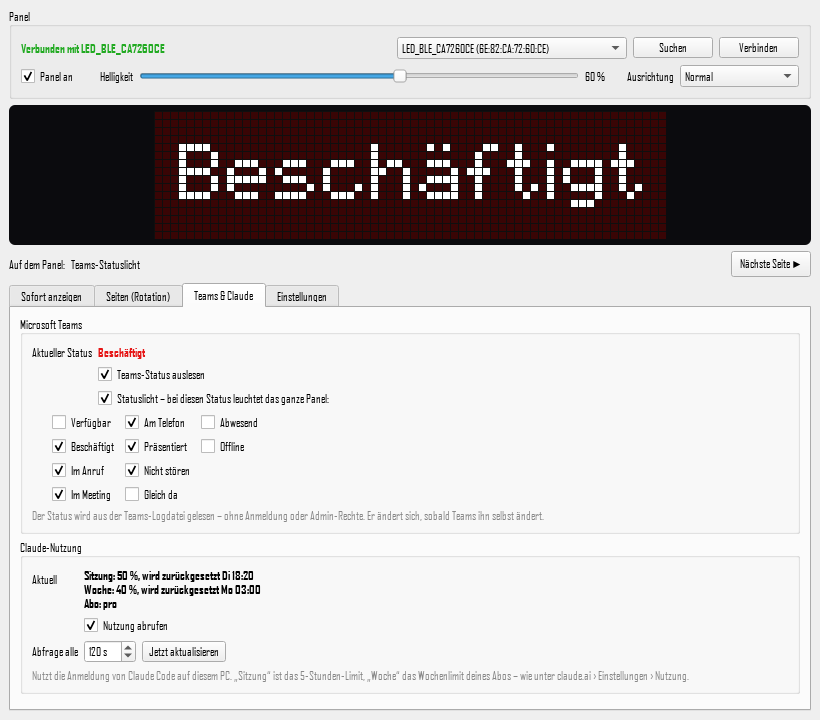
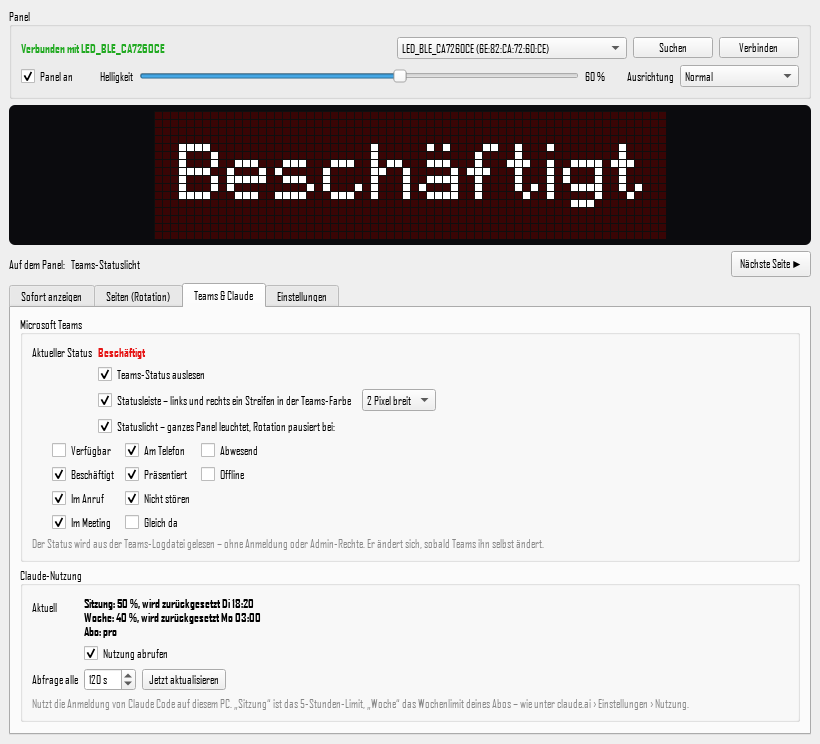
Abstände und einstellbare Statusleiste
- Uhr: 1 px Abstand zwischen Ziffern und Wochentag-Leiste (Leiste 1 px)
- Einzelwert mit Balken (z. B. Claude 50 %): 1 px Abstand zum Balken
- Teams-Statusleiste 1-3 px breit einstellbar; Seite wird schmaler gezeichnet
  statt überdeckt

Changed region(s): [[0.0, 0.0306, 1.0, 0.9472], [0.7317, 0.0611, 0.7622, 0.0917]]

diff --git a/tests/test_logic.py b/tests/test_logic.py
@@ -88,15 +88,39 @@ def test_signature_changes_with_data():
     assert pages.signature(clock, pages.Context(), now) != pages.signature(clock, pages.Context(), now.replace(minute=6))
 
 
-def test_status_frame_colours_the_edge_of_every_frame():
+GREEN = (0, 200, 60)
+NOW = datetime(2026, 11, 3, 14, 5)
+
+
+def _row(img, y, x0=0, x1=None):
+    return [img.getpixel((x, y)) for x in range(x0, x1 if x1 is not None else img.width)]
+
+
+@pytest.mark.parametrize("bars", [1, 2, 3])
+def test_status_bars_have_the_chosen_width_and_do_not_cover_content(bars):
     page = config.new_page("text")
-    out = pages.render_page(page, pages.Context(), 64, 16, datetime(2026, 11, 3, 14, 5))
-    framed = pages.add_frame(out, (0, 200, 60))
-    for f in framed.frames:
-        assert f.getpixel((0, 0)) == (0, 200, 60)
-        assert f.getpixel((63, 15)) == (0, 200, 60)
-        assert f.getpixel((63, 8)) == (0, 200, 60)
-    assert out.frames[0].getpixel((0, 0)) != (0, 200, 60)  # original untouched
+    inner = pages.render_page(page, pages.Context(), 64 - 2 * bars, 16, NOW)
+    framed = pages.with_status_bars(inner, GREEN, bars)
+    f = framed.frames[0]
+    assert f.size == (64, 16)
+    for x in list(range(bars)) + list(range(64 - bars, 64)):
+        assert all(f.getpixel((x, y)) == GREEN for y in range(16))
+    assert f.crop((bars, 0, 64 - bars, 16)).tobytes() == inner.frames[0].tobytes()
+
+
+def test_clock_digits_keep_a_gap_above_the_weekday_bar():
+    f = pages.render_page(config.new_page("clock"), pages.Context(), 64, 16, NOW).frames[0]
+    assert all(p == (0, 0, 0) for p in _row(f, 14)), "row 14 must stay dark between digits and bar"
+    assert any(p != (0, 0, 0) for p in _row(f, 15)), "weekday bar in the bottom row"
+    assert any(p != (0, 0, 0) for p in _row(f, 1)), "digits stay big (two times)"
+
+
+def test_claude_percent_keeps_a_gap_above_the_progress_bar():
+    page = {**config.new_page("claude"), "show": "session"}
+    ctx = pages.Context(claude=sources.ClaudeUsage(session=50, week=40))
+    f = pages.render_page(page, ctx, 64, 16, NOW).frames[0]
+    assert all(p == (0, 0, 0) for p in _row(f, 14, 17)), "row 14 dark between number and bar"
+    assert any(p != (0, 0, 0) for p in _row(f, 15, 17)), "progress bar in the bottom row"
 
 
 def test_default_light_states_leave_rotation_for_available():

diff --git a/pixelpanel/core/render.py b/pixelpanel/core/render.py
@@ -210,7 +210,7 @@ def _layout(screen: Screen, width: int, height: int) -> tuple[int, int, int, lis
     if screen.big and len(lines) == 1:
         text = lines[0].text
         glyph_h = font.LINE_HEIGHT if font.has_descender(text) else font.CAP_HEIGHT
-        avail_h = height - (1 if screen.progress is not None else 0)
+        avail_h = height - (2 if screen.progress is not None else 0)  # bar + 1 px gap
         for s in range(max(1, avail_h // glyph_h), 1, -1):
             if font.text_width(text, s) <= area_w:
                 scale = s
@@ -219,7 +219,7 @@ def _layout(screen: Screen, width: int, height: int) -> tuple[int, int, int, lis
     if len(lines) == 1:
         text = lines[0].text
         glyph_h = (font.LINE_HEIGHT if font.has_descender(text) else font.CAP_HEIGHT) * scale
-        avail_h = height - (2 if screen.progress is not None and scale == 1 else 0)
+        avail_h = height - (2 if screen.progress is not None else 0)  # never touch the progress bar
         tops = [max(0, (avail_h - glyph_h) // 2)]
     else:
         block = len(lines) * font.LINE_HEIGHT
@@ -297,8 +297,9 @@ def render_clock(now: datetime, width: int, height: int, color: RGB = WHITE,
     if height > width:
         return _render_clock_tall(now, width, height, color, blink, weekday_color, weekdays or WEEKDAYS_SHORT,
                                   effect, seconds)
-    bar_h = 2 if weekday_bar and height >= 16 else (1 if weekday_bar and height >= 12 else 0)
-    avail_h = height - bar_h
+    # 1 px weekday bar plus 1 px gap, so the big digits never touch the bar
+    bar_h = 1 if weekday_bar and height >= 12 else 0
+    avail_h = height - bar_h - (1 if bar_h else 0)
     digits = now.strftime("%H:%M")
     sec_w = font.text_width("00") + 2 if seconds else 0  # small seconds right of the minutes
     scale = 1

diff --git a/pixelpanel/engine.py b/pixelpanel/engine.py
@@ -303,10 +303,11 @@ class Engine:
             return
         now = datetime.now()
         teams = self.config["teams"]
-        frame = None
+        frame, bars = None, 0
         if not light and teams.get("enabled", True) and teams.get("status_frame") and self.ctx.teams:
             frame = sources.teams_label(self.ctx.teams)[1]
-        key = pages.signature(page, self.ctx, now) + (light, frame, self.config.get("orientation"))
+            bars = max(1, min(3, int(teams.get("bar_width", 2))))
+        key = pages.signature(page, self.ctx, now) + (light, frame, bars, self.config.get("orientation"))
         still_valid = self._shown.valid_until is None or now < self._shown.valid_until
         send = self.client.connected and self.config.get("power", True) and (key != self._shown.key or not still_valid)
         need_preview = key != self._preview_key
@@ -318,9 +319,9 @@ class Engine:
         if light:
             out = render.render_screen(pages.teams_screen(self.ctx.teams, light=True), vw, vh)
         else:
-            out = await asyncio.to_thread(pages.render_page, page, self.ctx, vw, vh, now)
-        if frame and isinstance(out, Rendered):
-            out = pages.add_frame(out, frame)
+            out = await asyncio.to_thread(pages.render_page, page, self.ctx, vw - 2 * bars, vh, now)
+            if frame and isinstance(out, Rendered):  # (the built-in clock has no picture to frame)
+                out = pages.with_status_bars(out, frame, bars)
         if isinstance(out, Rendered) and self._rot_min and out.scroll_ms and page is not None:
             # scrolling text stays at least one full pass
             self._rot_min = max(self._rot_min, out.scroll_ms / 1000)

diff --git a/pixelpanel/gui.py b/pixelpanel/gui.py
@@ -503,10 +503,21 @@ class MainWindow(QMainWindow):
         en.setChecked(teams.get("enabled", True))
         en.toggled.connect(lambda v: self._set_sub("teams", "enabled", v))
         form.addRow("", en)
-        frame_cb = QCheckBox("Statusleiste – jede Seite bekommt links und rechts einen Streifen in der Teams-Farbe")
+        frame_cb = QCheckBox("Statusleiste – links und rechts ein Streifen in der Teams-Farbe")
         frame_cb.setChecked(teams.get("status_frame", True))
         frame_cb.toggled.connect(lambda v: self._set_sub("teams", "status_frame", v))
-        form.addRow("", frame_cb)
+        bar_width = QComboBox()
+        for n in (1, 2, 3):
+            bar_width.addItem(f"{n} Pixel breit", n)
+        bar_width.setCurrentIndex(max(0, bar_width.findData(int(teams.get("bar_width", 2)))))
+        bar_width.currentIndexChanged.connect(lambda _: self._set_sub("teams", "bar_width", bar_width.currentData()))
+        frame_cb.toggled.connect(bar_width.setEnabled)
+        bar_width.setEnabled(frame_cb.isChecked())
+        row = QHBoxLayout()
+        row.addWidget(frame_cb)
+        row.addWidget(bar_width)
+        row.addStretch(1)
+        form.addRow("", row)
         self.light_cb = QCheckBox("Statuslicht – ganzes Panel leuchtet, Rotation pausiert bei:")
         self.light_cb.setToolTip("Nur Status anhaken, bei denen die Rotation wirklich anhalten soll "
                                  "(z. B. Beschäftigt). Nur „Sofort anzeigen“ hat noch Vorrang.")

diff --git a/pixelpanel/pages.py b/pixelpanel/pages.py
@@ -161,18 +161,17 @@ def teams_screen(state: str | None, light: bool) -> Screen:
     return Screen([Line(label, color)], icon=dot_icon(color), big=False)
 
 
-def add_frame(rendered: Rendered, color: tuple[int, int, int]) -> Rendered:
-    """Copy of the picture with 1 px bars in `color` on the left and right edge (Teams status).
+def with_status_bars(inner: Rendered, color: tuple[int, int, int], bars: int) -> Rendered:
+    """Put `bars` px wide stripes in `color` left and right of a picture drawn `2 * bars` narrower.
 
+    The page is drawn narrower instead of painting over it, so the stripes never cover content.
     Only the sides: two text lines need all 16 rows, a top/bottom border would cut them."""
     framed = []
-    for f in rendered.frames:
-        f = f.copy()
-        draw = ImageDraw.Draw(f)
-        draw.line((0, 0, 0, f.height - 1), fill=color)
-        draw.line((f.width - 1, 0, f.width - 1, f.height - 1), fill=color)
-        framed.append(f)
-    return Rendered(framed, rendered.durations, rendered.scrolls, rendered.valid_until)
+    for f in inner.frames:
+        out = Image.new("RGB", (f.width + 2 * bars, f.height), color)
+        out.paste(f, (bars, 0))
+        framed.append(out)
+    return Rendered(framed, inner.durations, inner.scrolls, inner.valid_until)
 
 
 def claude_screen(usage: sources.ClaudeUsage | None, show: str) -> Screen:

diff --git a/pixelpanel/config.py b/pixelpanel/config.py
@@ -59,6 +59,7 @@ def default_config() -> dict:
             "enabled": True,
             "status_light": True,
             "status_frame": True,
+            "bar_width": 2,  # px of the status stripes left and right (1-3)
             "light_states": ["Busy", "DoNotDisturb", "InACall", "InAMeeting", "Presenting", "OnThePhone"],
         },
         "claude": {"enabled": True, "interval": 120},

diff --git a/README.md b/README.md
@@ -142,9 +142,10 @@ Teams-Statuslicht an/aus, **Beenden**.
   (`%LOCALAPPDATA%\Packages\MSTeams_8wekyb3d8bbwe\LocalCache\Microsoft\MSTeams\Logs\MSTeams_*.log`,
   Zeilen `UserPresenceAction … availability: Busy`). Keine Anmeldung, keine Azure-App, keine
   Admin-Rechte; geprüft wird alle 2 Sekunden.
-- **Statusleiste:** Solange die Rotation läuft, hat jede Seite links und rechts einen
-  1-Pixel-Streifen in der Teams-Farbe – der Status ist also immer sichtbar, ohne die Rotation
-  anzuhalten (abschaltbar unter *Teams & Claude*).
+- **Statusleiste:** Solange die Rotation läuft, hat jede Seite links und rechts einen Streifen
+  in der Teams-Farbe – der Status ist also immer sichtbar, ohne die Rotation anzuhalten. Breite
+  **1, 2 oder 3 Pixel** einstellbar (Standard 2), abschaltbar unter *Teams & Claude*. Die Seite
+  wird dafür entsprechend schmaler gezeichnet, die Streifen überdecken also nichts.
 
   ![Statusleiste](docs/images/teams-rahmen.png)
 
